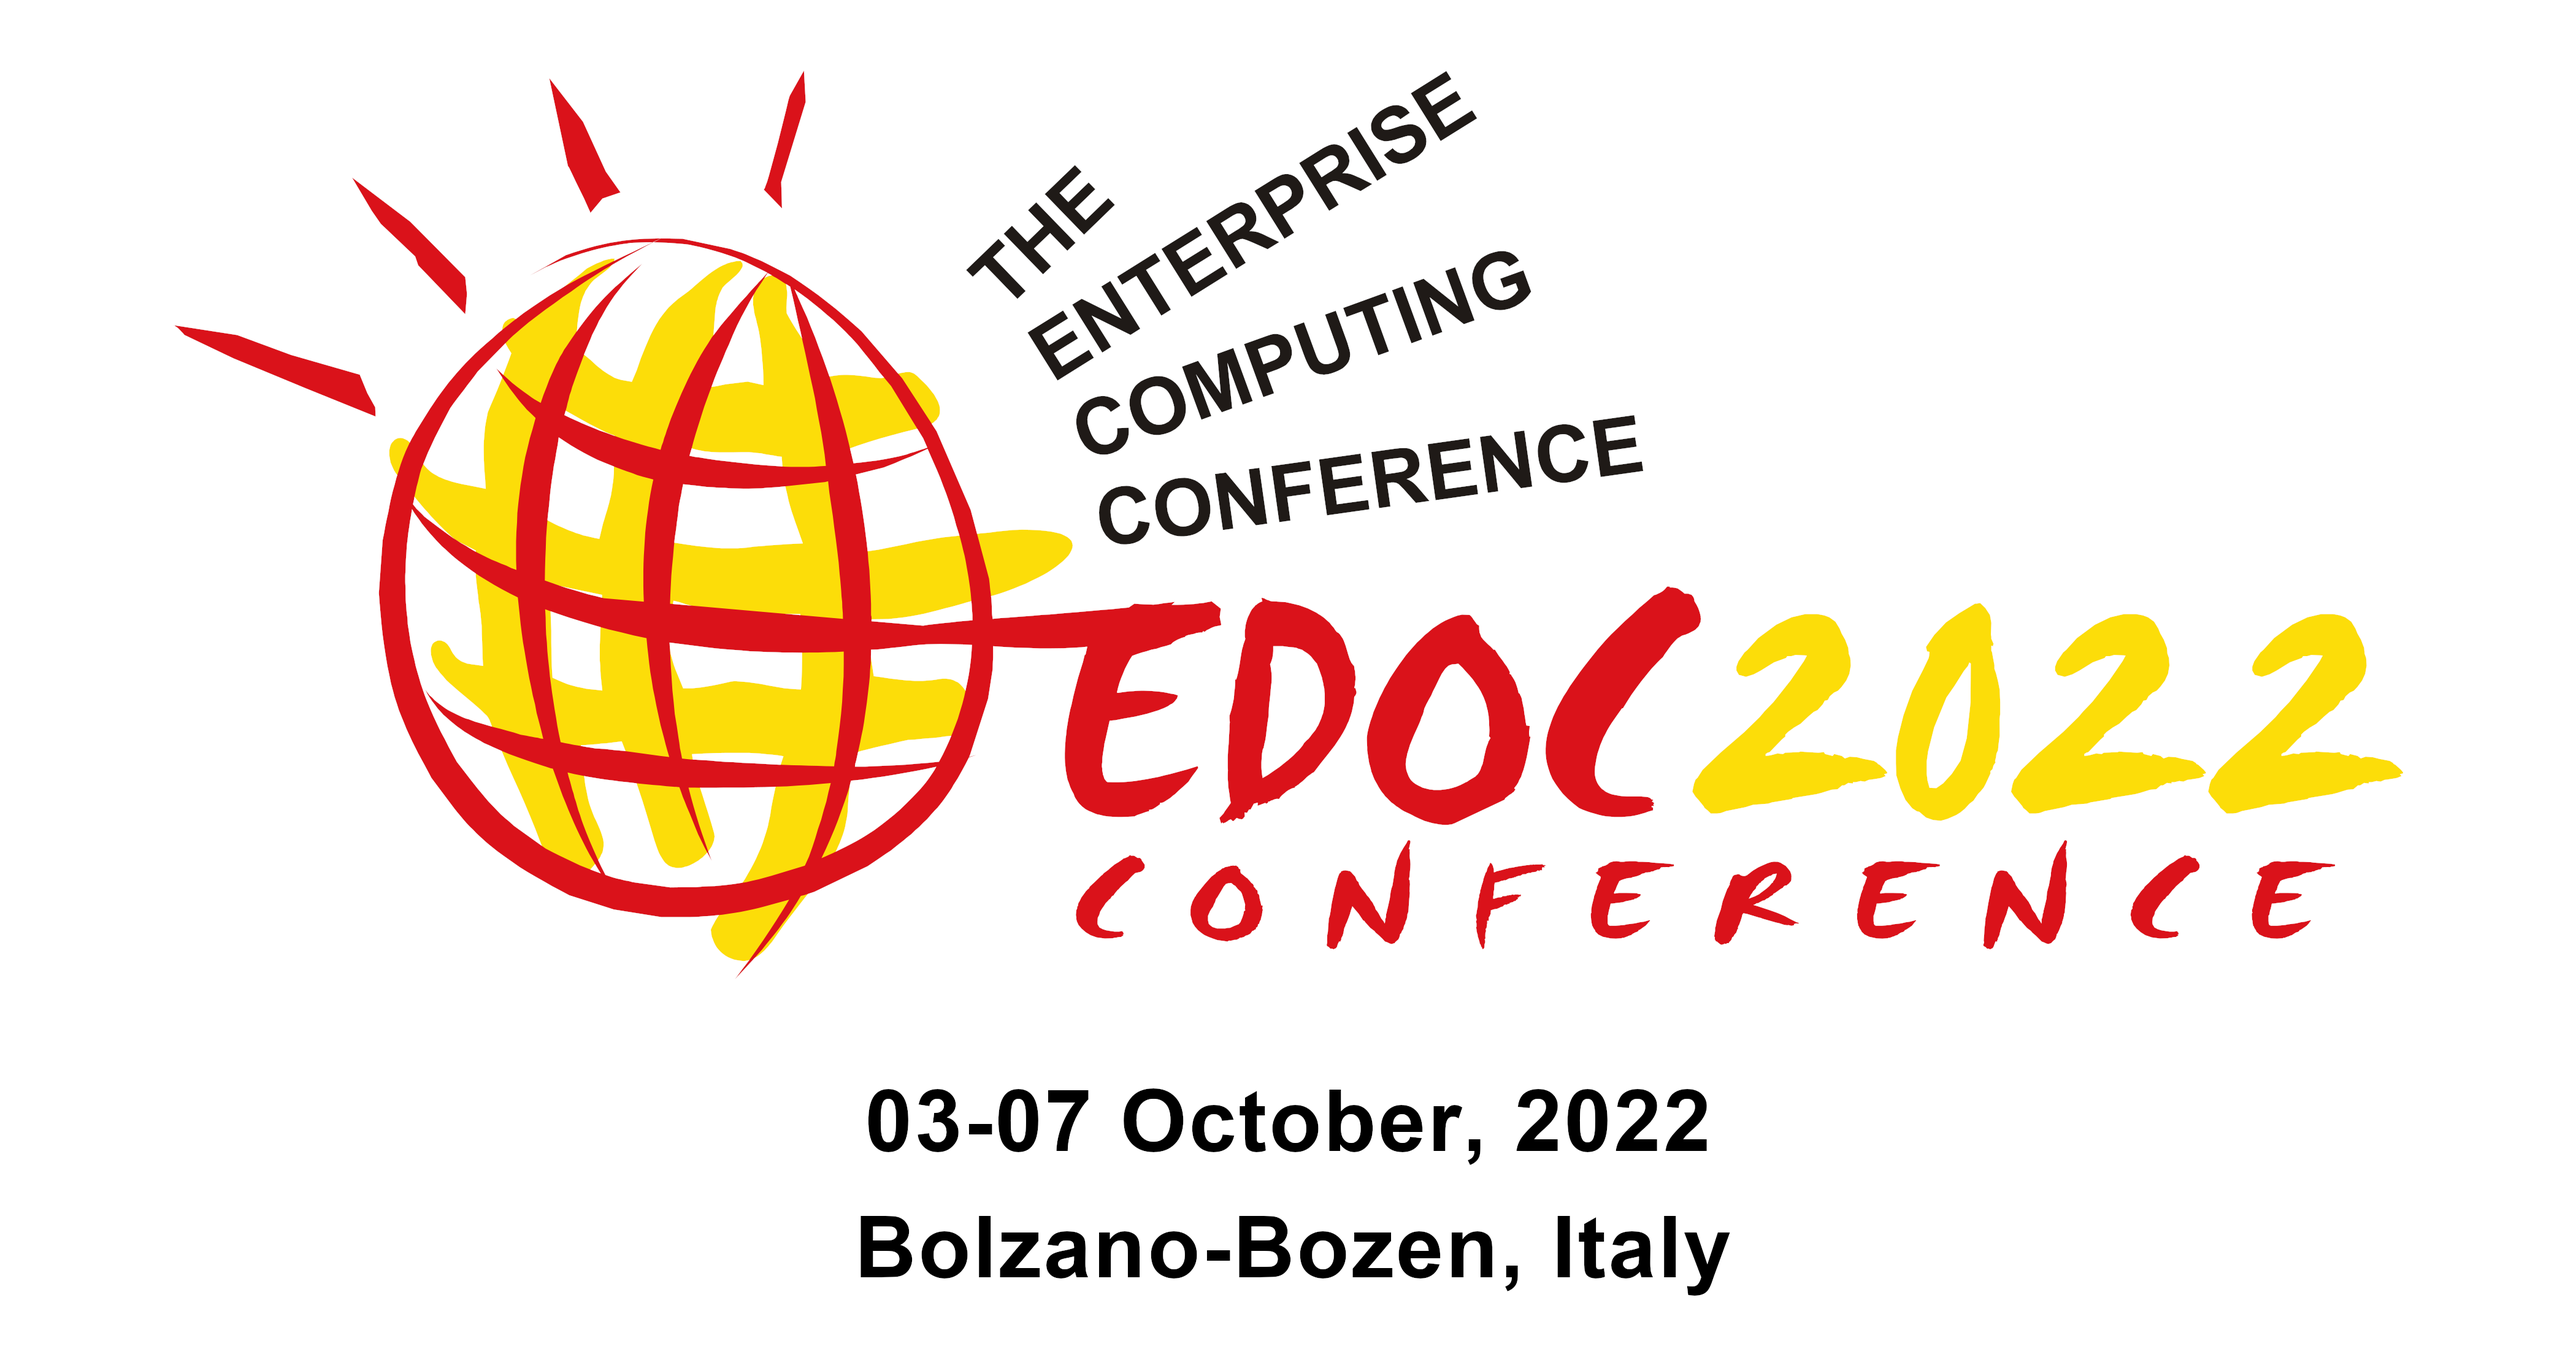
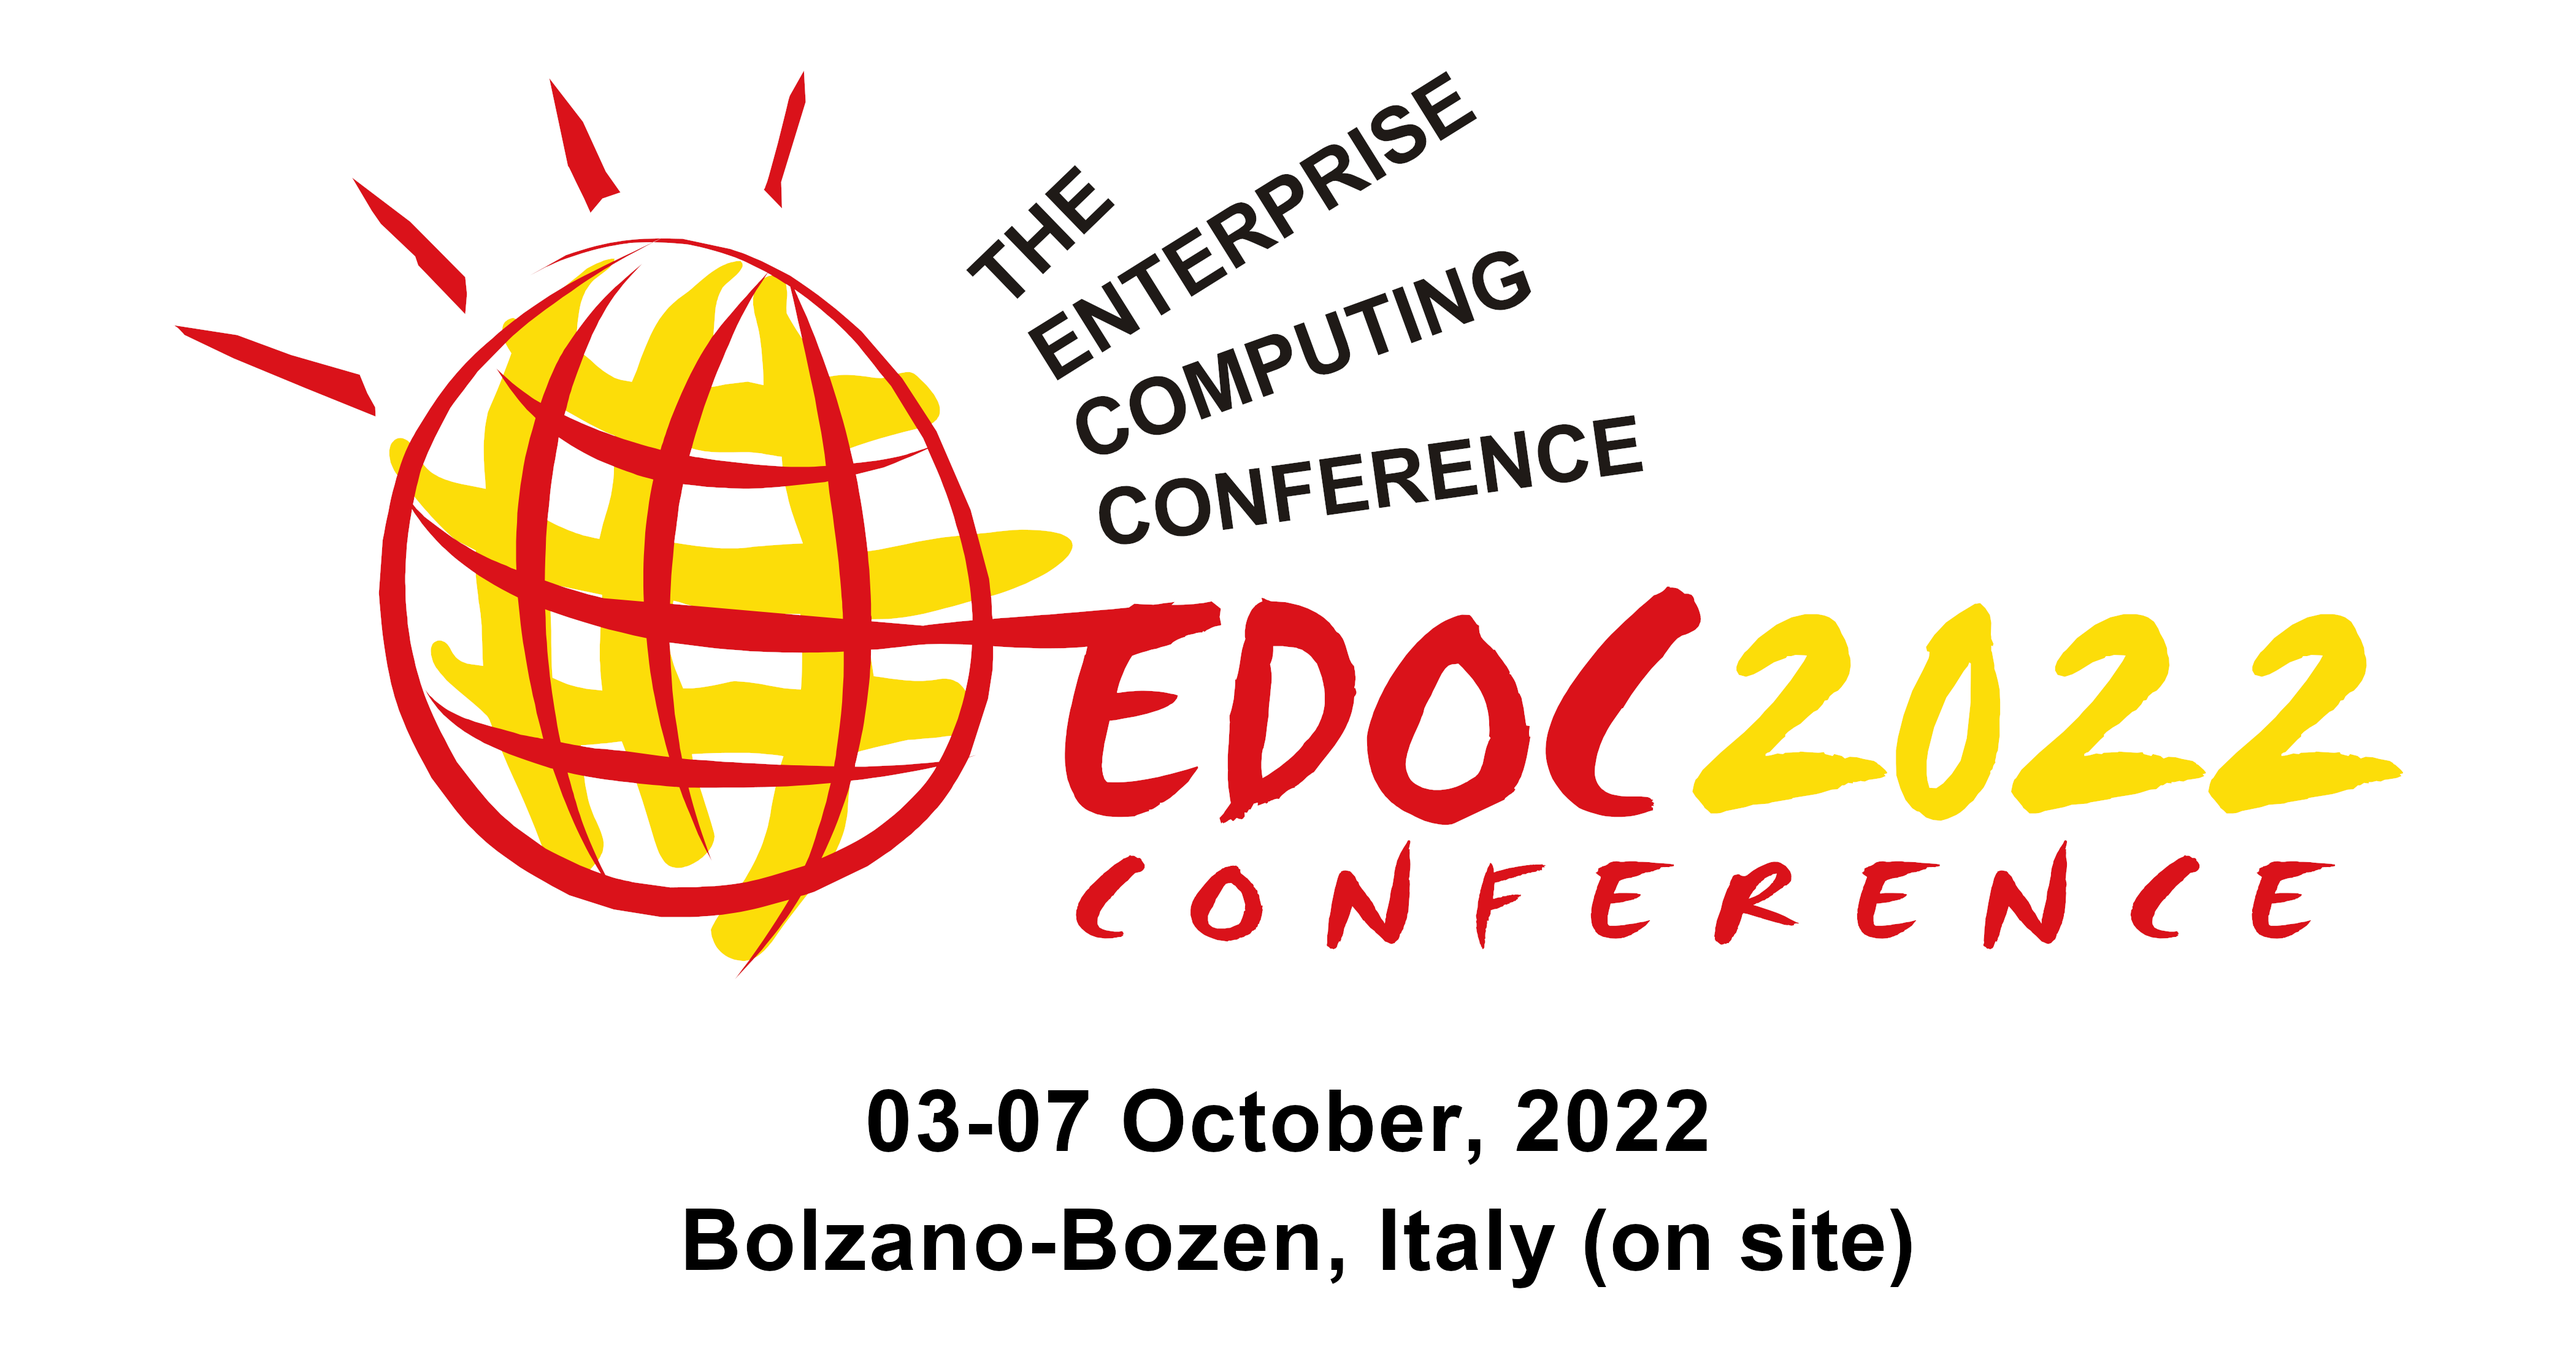
Minor updates

Changed region(s): [[0.2495, 0.8964, 0.7486, 0.9582]]

diff --git a/src/pages/index.js b/src/pages/index.js
@@ -36,22 +36,29 @@ const IndexPage = () => (
     <section id="supporters" className="content-section text-center">
       <div className="container">
         <div className="row justify-content-around">
-          <div className="col-2" />
-          <div className="col-4">
+          <div className="col-1" />
+          <div className="col-3">
             <div className="btn mr-4 ml-4 mt-4 mb-4 btn-primary">
               <Link className="text-white" to="https://coopisconference.org/">
                 CoopIS 2022
               </Link>
             </div>
           </div>
-          <div className="col-4">
+          <div className="col-3">
             <div className="btn mr-4 ml-4 mt-4 mb-4 btn-primary">
               <Link className="text-white" to="/call-for-papers">
                 Call for Papers
               </Link>
             </div>
           </div>
-          <div className="col-2" />
+          <div className="col-3">
+            <div className="btn mr-4 ml-4 mt-4 mb-4 btn-primary">
+              <Link className="text-white" to="/#venue">
+                Venue
+              </Link>
+            </div>
+          </div>
+          <div className="col-1" />
         </div>
       </div>
     </section>
@@ -135,14 +142,14 @@ const IndexPage = () => (
           <div className="col-lg-8 mx-auto">
             <h2 className="text-black mb-4">The Venue</h2>
             <p className="text-black text-justify">
-              EDOC 2022 is hosted by the Free University of Bozen-Bolzano,
-              located in the city of Bolzano, Northern Italy. The valley of the
-              river Adige, which carves the Italian Alps, is the home of a
-              vibrant research community with leading researchers in the fields
-              of ontology engineering, knowledge representation, and enterprise
-              architecture. In every available opportunity, Bolzano welcomes you
-              to come to visit, learn, and celebrate its nature, history, and
-              culture in a unique place in the heart of Europe.
+              EDOC 2022 is hosted by the Free University of Bozen-Bolzano, and
+              happening on-site in the city of Bolzano, Northern Italy. The
+              valley of the river Adige, which carves the Italian Alps, is the
+              home of a vibrant research community with leading researchers in
+              the fields of ontology engineering, knowledge representation, and
+              enterprise architecture. In every available opportunity, Bolzano
+              welcomes you to come to visit, learn, and celebrate its nature,
+              history, and culture in a unique place in the heart of Europe.
             </p>
           </div>
         </div>

diff --git a/src/assets/misc/people.js b/src/assets/misc/people.js
@@ -74,8 +74,8 @@ const People = {
   organizationCommittee: {
     name: "Local Organization Committee",
     members: [
-      { name: "Riccardo Baratella", institution: "Free University of Bozen-Bolzano - Italy" },
       { name: "Pedro Paulo F. Barcelos", institution: "Free University of Bozen-Bolzano - Italy" },
+      { name: "Riccardo Baratella", institution: "Free University of Bozen-Bolzano - Italy" },
       { name: "Isadora Valle Sousa", institution: "Free University of Bozen-Bolzano - Italy" },
     ]
   },

diff --git a/src/pages/call-for-papers.js b/src/pages/call-for-papers.js
@@ -29,7 +29,7 @@ const CallForPapersPage = () => (
               Enterprise Design, Operations and Computing
             </h3>
             <h3 className="text-black mb-4">
-              3-7 October 2022, Bozen-Bolzano, Italy
+              3-7 October 2022, Bozen-Bolzano, Italy <b>(on-site)</b>
             </h3>
           </div>
         </div>

diff --git a/src/assets/sass/_secondaryhead.scss b/src/assets/sass/_secondaryhead.scss
@@ -10,7 +10,7 @@
       #{fade-out(black,0.2)} 10%,
       #{fade-out(black,0.9)} 80%
     ),
-    url('../images/field-and-mountain_tomas-malik_croped_2.jpg');
+    url('../images/field-and-mountain_tomas-malik_croped.jpg');
   background-position: center;
   background-repeat: no-repeat;
   background-attachment: scroll;

diff --git a/README.md b/README.md
@@ -1,16 +1,8 @@
-# gatsby-starter-grayscale
+# EDOC 2022
 
-Gatsby.js V2 starter template based on Grayscale by startbootstrap
+This repository contains the sources for EDOC 2022 website. This website is built on top of the template __gatsby-starter-grayscale__, by Anubhav Srivastava.
 
-For an overview of the project structure please refer to the [Gatsby documentation - Building with Components](https://www.gatsbyjs.org/docs/building-with-components/).
-
-Check online preview [here](https://anubhavsrivastava.github.io/gatsby-starter-grayscale/)
-
-## Screenshot
-
-![Screenshot](./src/assets/img/demo.png)
-
-## Install
+## Install and Deploy
 
 Make sure that you have the Gatsby CLI program installed:
 
@@ -18,82 +10,15 @@ Make sure that you have the Gatsby CLI program installed:
 npm install --global gatsby-cli
 ```
 
-And run from your CLI:
-
-```sh
-gatsby new <site-name> https://github.com/anubhavsrivastava/gatsby-starter-grayscale
-```
-
 Then you can run it by:
 
 ```sh
-cd gatsby-example-site
+cd edoc2022.github.io
 npm install
-gatsby develop
+npm run build
+npm run serve
 ```
 
-### Personalization
+This website is configured to be served under the path `/2022`, so to access it during development visit `localhost:9000/2022`. Also, remember to always use Gatsby's `Link` component to create links, instead of the bare HTML tags.
 
-Edit `config.js` to put up your details
-
-```javascript
-module.exports = {
-  siteTitle: 'Gatsby Starter grayscale', // <title>
-  ...
-  heading: 'Anubhav Srivastava',
-  subHeading: 'Full time Web Developer. Part time Open source contributor  ',
-
-  // social
-  socialLinks: [
-    {
-      icon: 'fa-github',
-      name: 'Github',
-      url: 'https://github.com/anubhavsrivastava',
-    }
-    ...
-  ],
-};
-
-```
-
-### Deploying using Github page
-
-`package.json` has a default script that uses `gh-pages` module to publish on Github pages. Simply running `npm run deploy` would publish the site on github pages.
-
-Additionally, it also has [path-prefix](https://www.gatsbyjs.org/docs/path-prefix/) value set for gatsby config in `config.js`. Change `pathPrefix` to relevant path if your gatsby site is hosted on subpath of a domain, `https://theanubhav.com/somePath/`. If you are hosting it as root site, i.e, `https://theanubhav.com/` , remove the pathPrefix configuration.
-
-
-### Checkout other similar starters
-
-- [gatsby-starter-casual](https://github.com/anubhavsrivastava/gatsby-starter-casual)
-- [gatsby-starter-grayscale](https://github.com/anubhavsrivastava/gatsby-starter-grayscale)
-- [gatsby-starter-resume](https://github.com/anubhavsrivastava/gatsby-starter-resume)
-- [gatsby-starter-spectral](https://github.com/anubhavsrivastava/gatsby-starter-spectral)
-- [gatsby-starter-newage](https://github.com/anubhavsrivastava/gatsby-starter-newage)
-- [gatsby-starter-stylish](https://github.com/anubhavsrivastava/gatsby-starter-stylish)
-- [gatsby-starter-solidstate](https://github.com/anubhavsrivastava/gatsby-starter-solidstate)
-- [gatsby-starter-readonly](https://github.com/anubhavsrivastava/gatsby-starter-readonly)
-- [gatsby-starter-prologue](https://github.com/anubhavsrivastava/gatsby-starter-prologue)
-- [gatsby-starter-phantom](https://github.com/anubhavsrivastava/gatsby-starter-phantom)
-- [gatsby-starter-paradigmshift](https://github.com/anubhavsrivastava/gatsby-starter-paradigmshift)
-- [gatsby-starter-overflow](https://github.com/anubhavsrivastava/gatsby-starter-overflow)
-- [gatsby-starter-multiverse](https://github.com/anubhavsrivastava/gatsby-starter-multiverse)
-- [gatsby-starter-identity](https://github.com/anubhavsrivastava/gatsby-starter-identity)
-- [gatsby-starter-highlights](https://github.com/anubhavsrivastava/gatsby-starter-highlights)
-- [gatsby-starter-fractal](https://github.com/anubhavsrivastava/gatsby-starter-fractal)
-- [gatsby-starter-eventually](https://github.com/anubhavsrivastava/gatsby-starter-eventually)
-- [gatsby-starter-directive](https://github.com/anubhavsrivastava/gatsby-starter-directive)
-- [gatsby-starter-creative](https://github.com/anubhavsrivastava/gatsby-starter-creative)
-- [gatsby-starter-aerial](https://github.com/anubhavsrivastava/gatsby-starter-aerial)
-
-### Contribution
-
-Suggestions and PRs are welcome!
-
-Please create issue or open PR request for contribution.
-
-### License
-
-[![Open Source Love](https://badges.frapsoft.com/os/mit/mit.svg?v=102)](LICENSE)
-
-refer `LICENSE` file in this repository.
+To deploy the site, replace the contents of the folder `/2022` on your website's server with the contents of the folder `/public` on the repository. Remember that it is necessary to execute `npm run build` to update this folder's contents.
